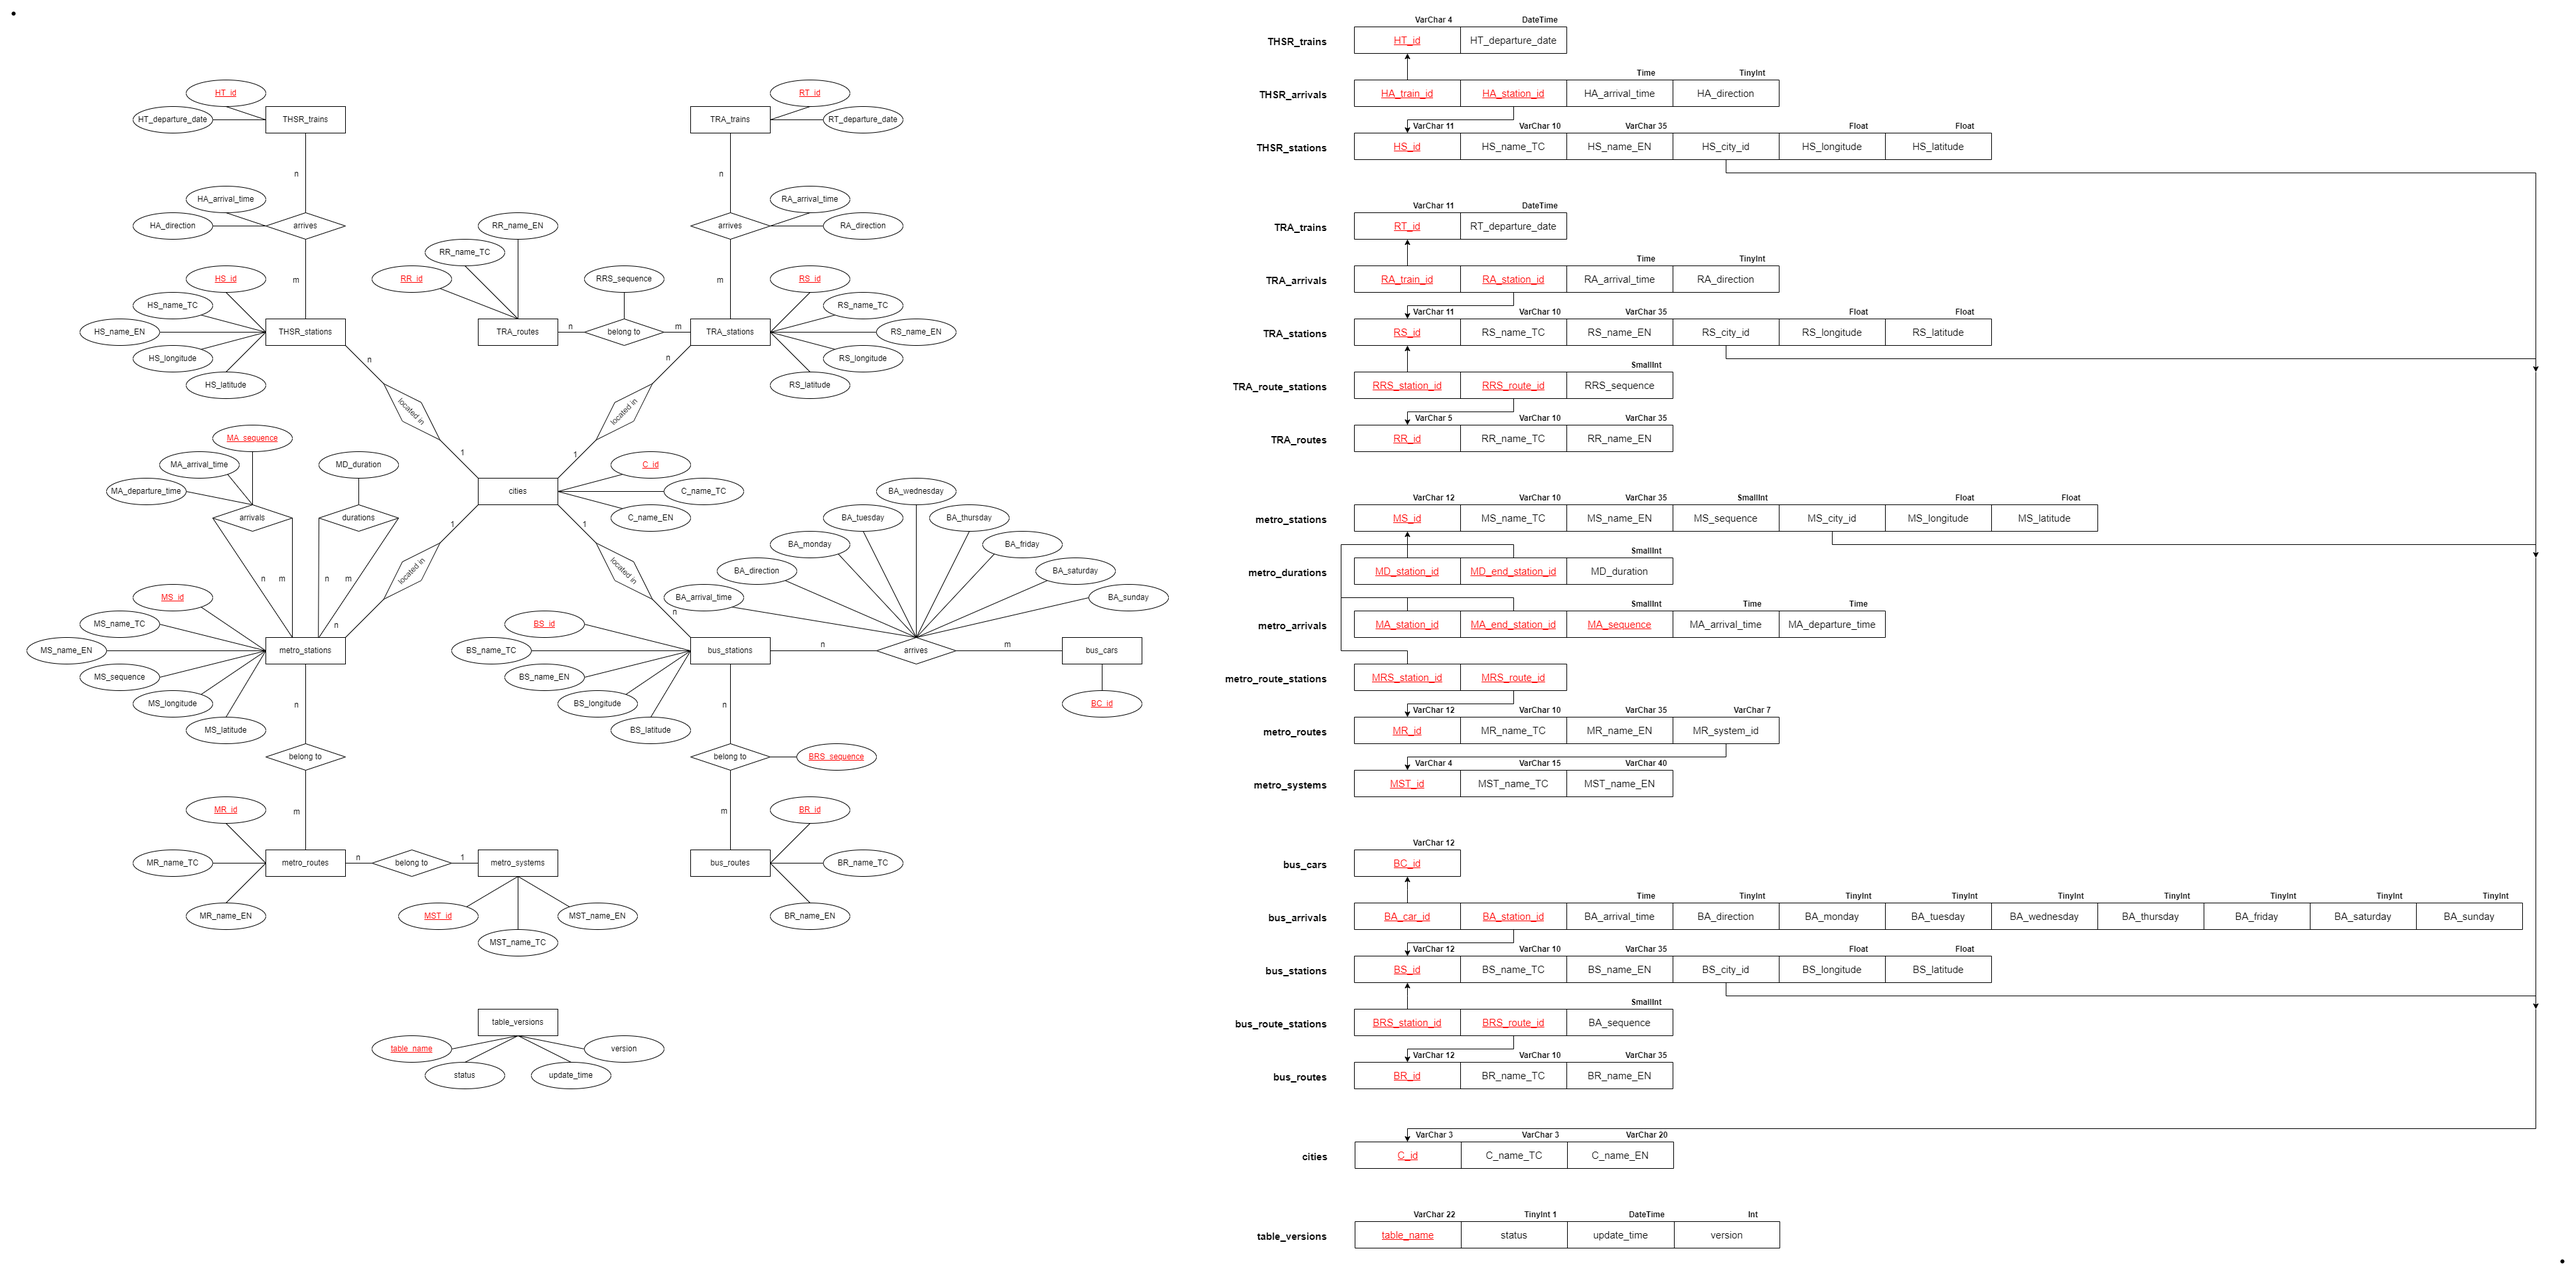
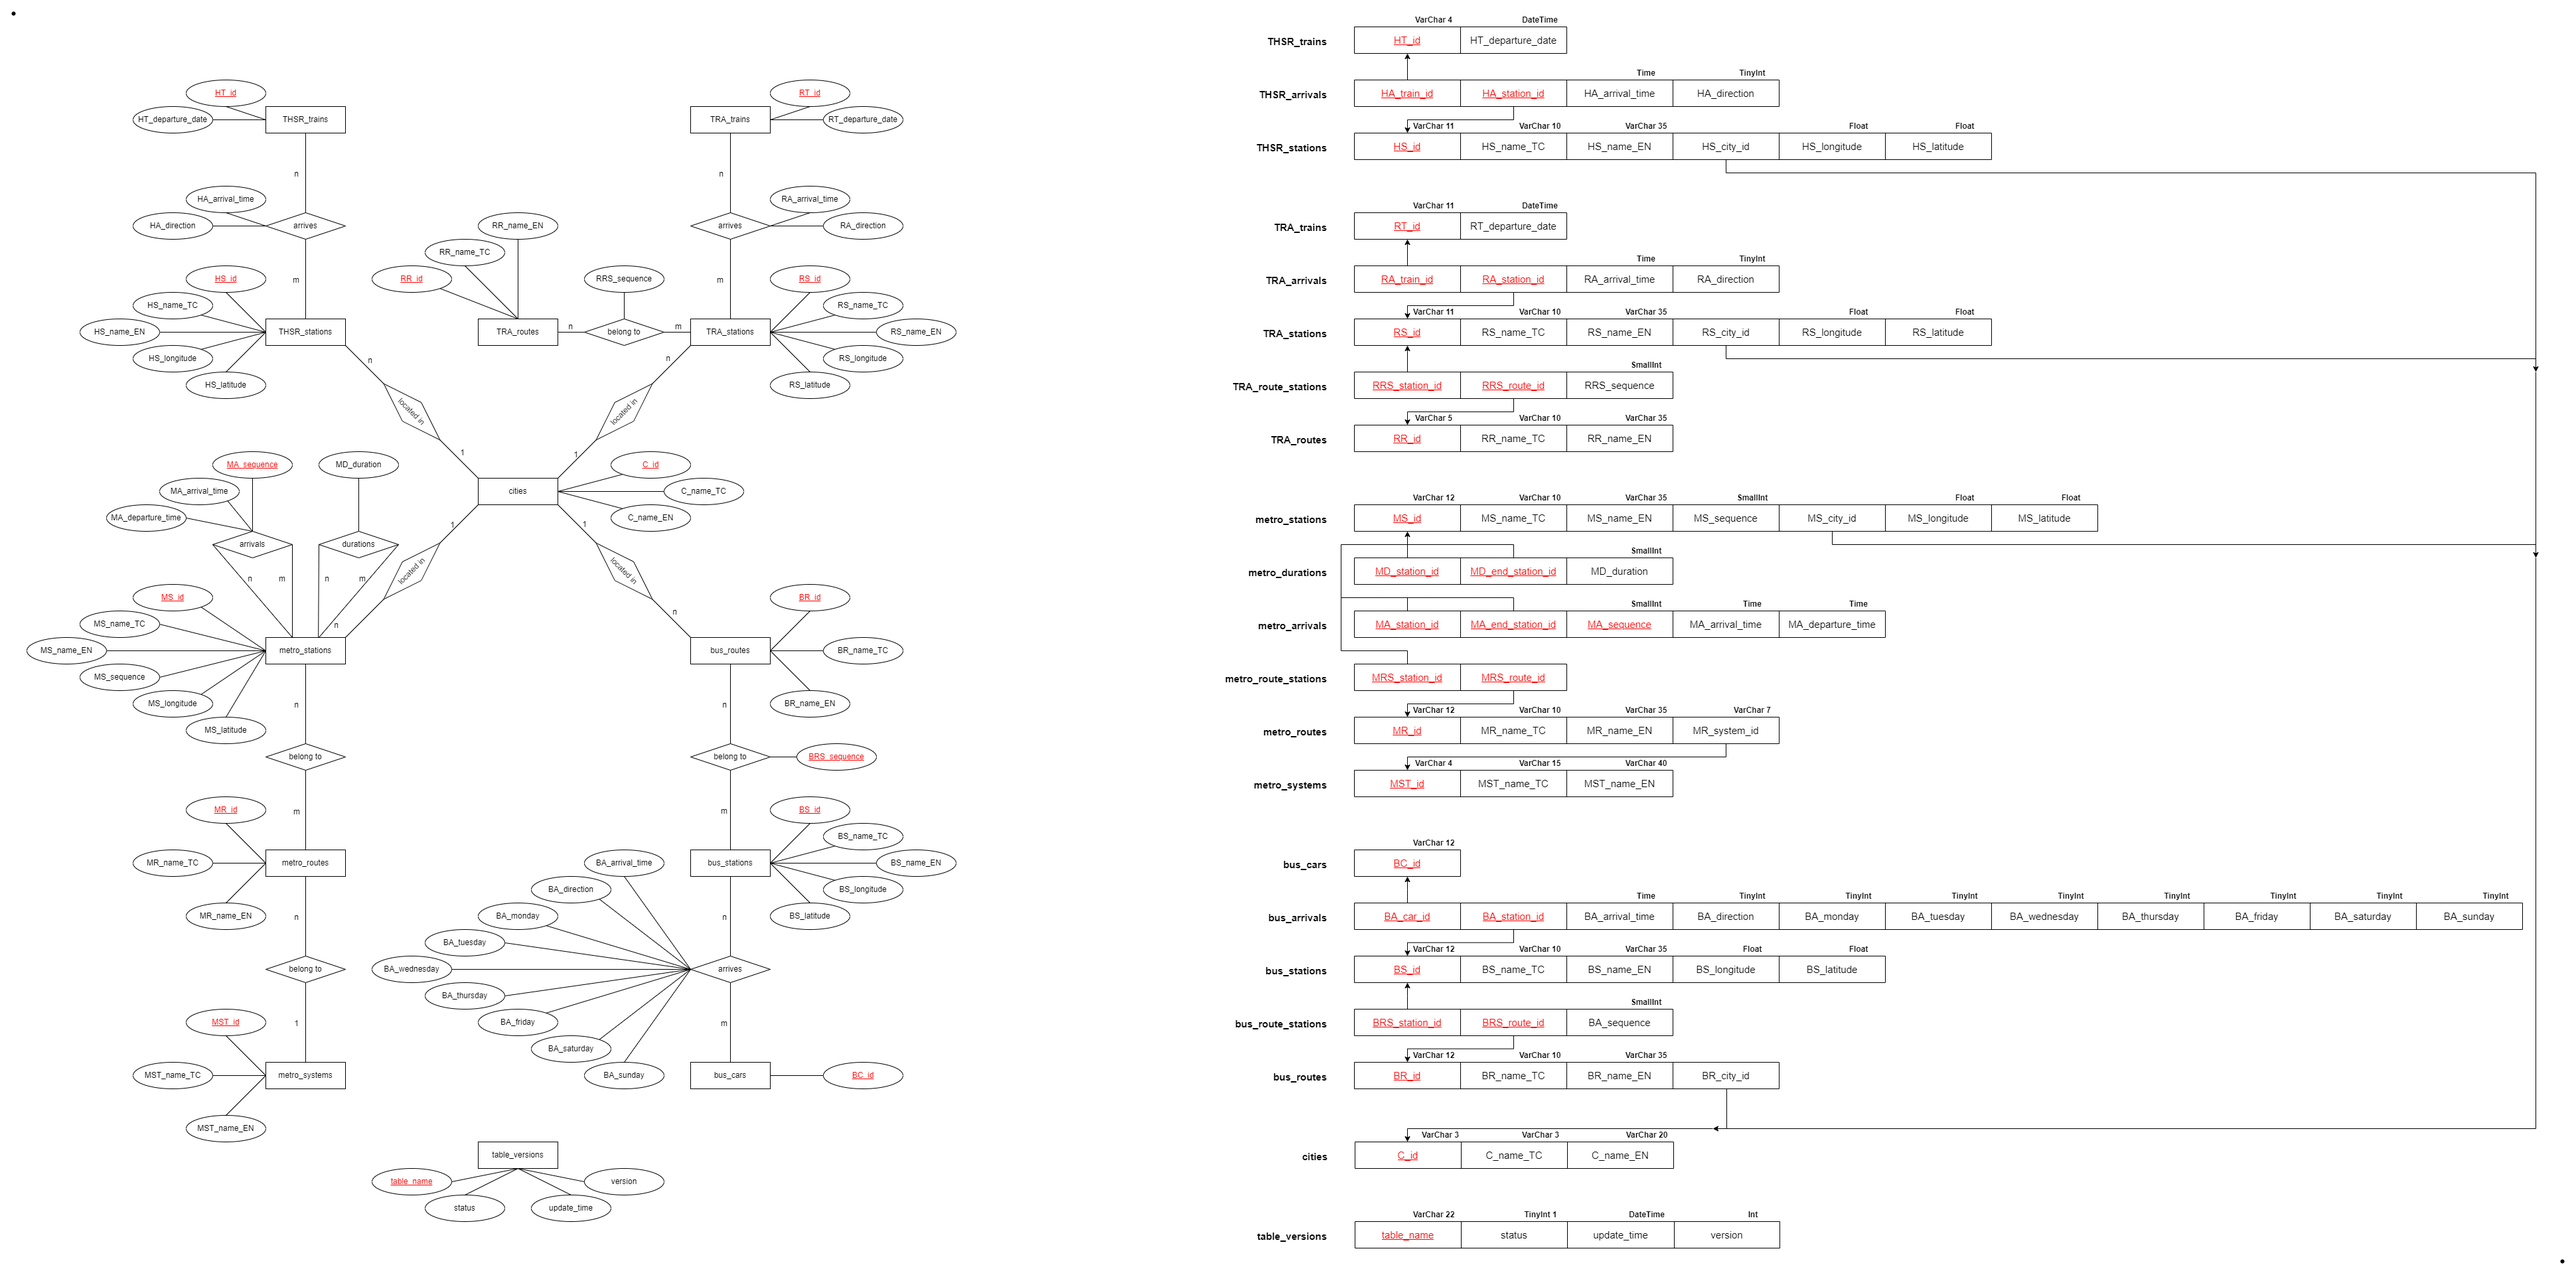
已更新縣市資料的位置。

diff --git a/app/Database/Migrations/2022-09-21-104622_DelBSCityId.php b/app/Database/Migrations/2022-09-21-104622_DelBSCityId.php
@@ -1,0 +1,73 @@
+<?php
+
+namespace App\Database\Migrations;
+
+use CodeIgniter\Database\Exceptions\DatabaseException;
+use CodeIgniter\Database\Migration;
+
+class DelBSCityId extends Migration
+{
+    /**
+     * 刪除 BS_city_id
+     */
+    public function up()
+    {
+        $this->forge->dropTable("bus_stations", true);
+        $fields = [
+            "BS_id" => [
+                "type" => "VARCHAR",
+                "constraint" => 12
+            ],
+            "BS_name_TC" => [
+                "type" => "VARCHAR",
+                "constraint" => 10
+            ],
+            "BS_name_EN" => [
+                "type" => "VARCHAR",
+                "constraint" => 35
+            ],
+            "BS_longitude" => [
+                "type" => "FLOAT"
+            ],
+            "BS_latitude" => [
+                "type" => "FLOAT"
+            ]
+        ];
+        $this->forge->addField($fields);
+        $this->forge->addPrimaryKey("BS_id");
+        $this->forge->createTable("bus_stations");
+    }
+
+    public function down()
+    {
+        $this->forge->dropTable("bus_stations", true);
+        $fields = [
+            "BS_id" => [
+                "type" => "VARCHAR",
+                "constraint" => 12
+            ],
+            "BS_name_TC" => [
+                "type" => "VARCHAR",
+                "constraint" => 10
+            ],
+            "BS_name_EN" => [
+                "type" => "VARCHAR",
+                "constraint" => 35
+            ],
+            "BS_city_id" => [
+                "type" => "VARCHAR",
+                "constraint" => 5
+            ],
+            "BS_longitude" => [
+                "type" => "FLOAT"
+            ],
+            "BS_latitude" => [
+                "type" => "FLOAT"
+            ]
+        ];
+        $this->forge->addField($fields);
+        $this->forge->addPrimaryKey("BS_id");
+        $this->forge->addForeignKey("BS_city_id", "cities", "C_id", "CASCADE", "CASCADE");
+        $this->forge->createTable("bus_stations");
+    }
+}

diff --git a/app/Database/Migrations/2022-09-21-105435_AddBRCityId.php b/app/Database/Migrations/2022-09-21-105435_AddBRCityId.php
@@ -1,0 +1,61 @@
+<?php
+
+namespace App\Database\Migrations;
+
+use CodeIgniter\Database\Exceptions\DatabaseException;
+use CodeIgniter\Database\Migration;
+
+class AddBRCityId extends Migration
+{
+    /**
+     * 新增 BR_city_id
+     */
+    public function up()
+    {
+        $this->forge->dropTable("bus_routes", true);
+        $fields = [
+            "BR_id" => [
+                "type" => "VARCHAR",
+                "constraint" => 12
+            ],
+            "BR_name_TC" => [
+                "type" => "VARCHAR",
+                "constraint" => 10
+            ],
+            "BR_name_EN" => [
+                "type" => "VARCHAR",
+                "constraint" => 35
+            ],
+            "BR_city_id" => [
+                "type" => "VARCHAR",
+                "constraint" => 3
+            ]
+        ];
+        $this->forge->addField($fields);
+        $this->forge->addPrimaryKey("BR_id");
+        $this->forge->addForeignKey("BR_city_id", "cities", "C_id", "CASCADE", "CASCADE");
+        $this->forge->createTable("bus_routes", true);
+    }
+
+    public function down()
+    {
+        $this->forge->dropTable("bus_routes", true);
+        $fields = [
+            "BR_id" => [
+                "type" => "VARCHAR",
+                "constraint" => 12
+            ],
+            "BR_name_TC" => [
+                "type" => "VARCHAR",
+                "constraint" => 10
+            ],
+            "BR_name_EN" => [
+                "type" => "VARCHAR",
+                "constraint" => 35
+            ]
+        ];
+        $this->forge->addField($fields);
+        $this->forge->addPrimaryKey("BR_id");
+        $this->forge->createTable("bus_routes", true);
+    }
+}
